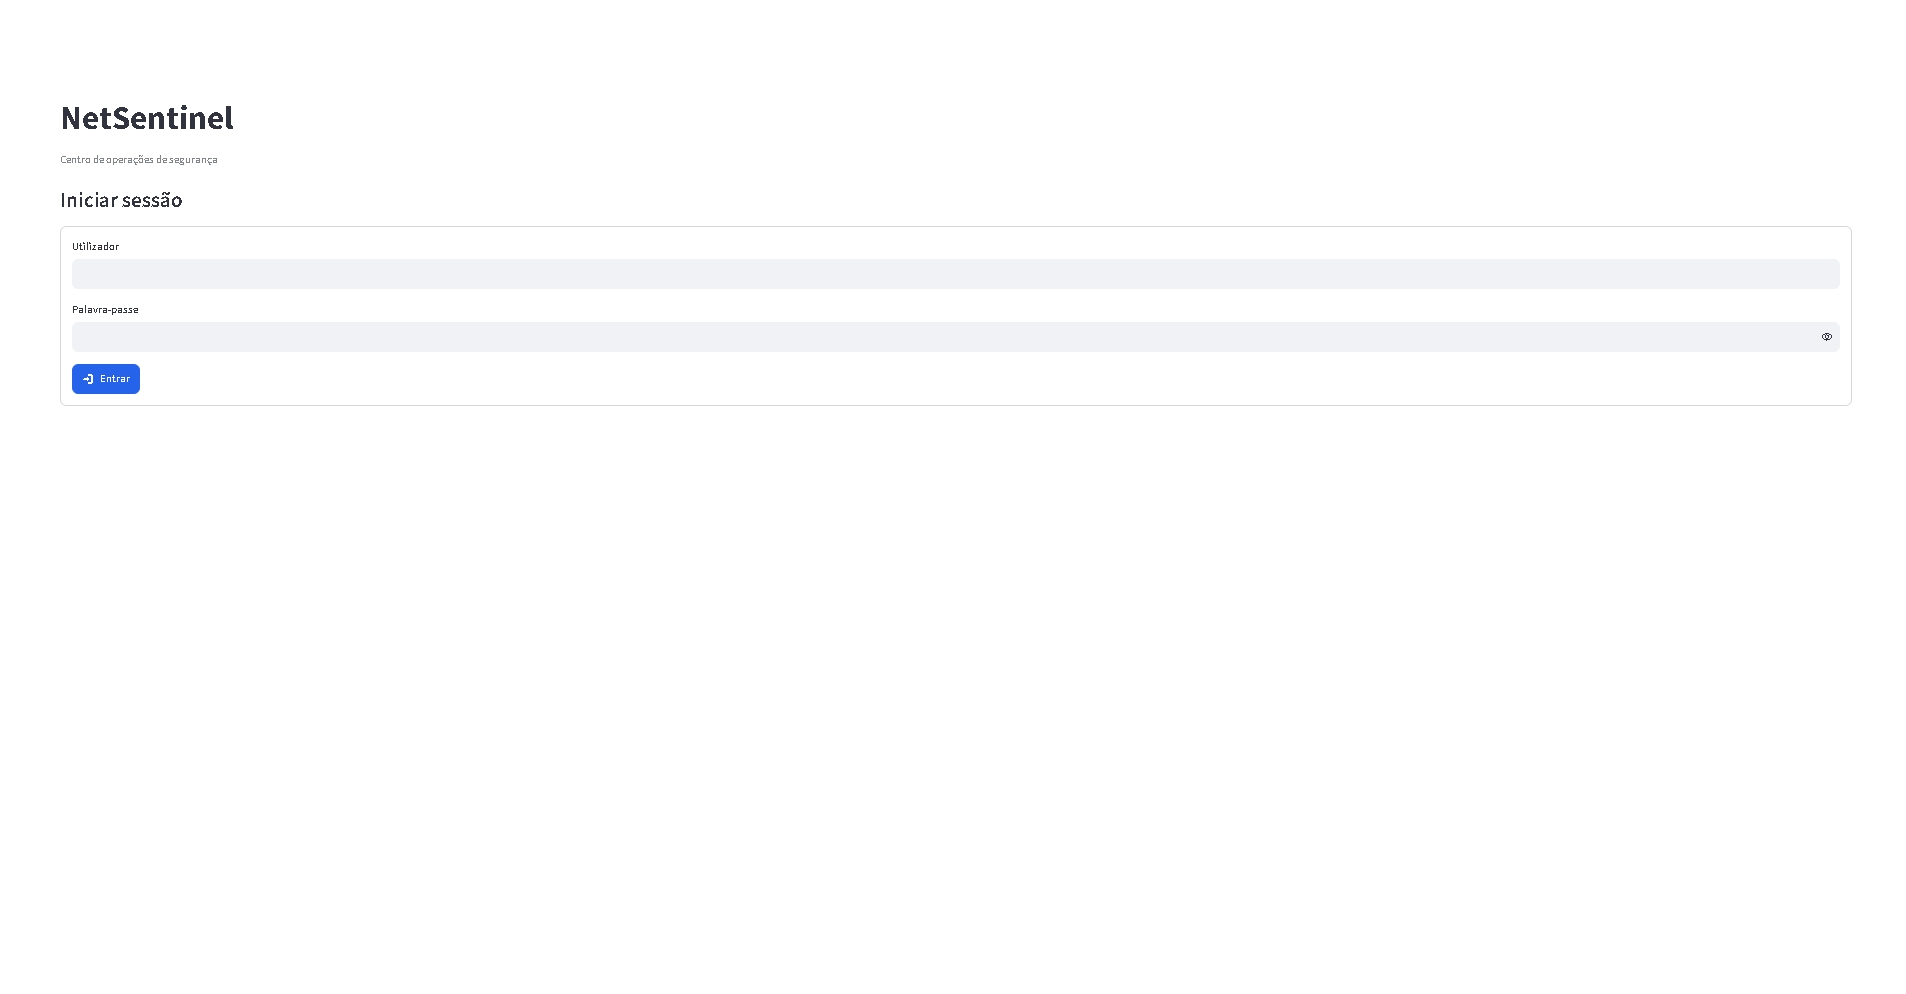
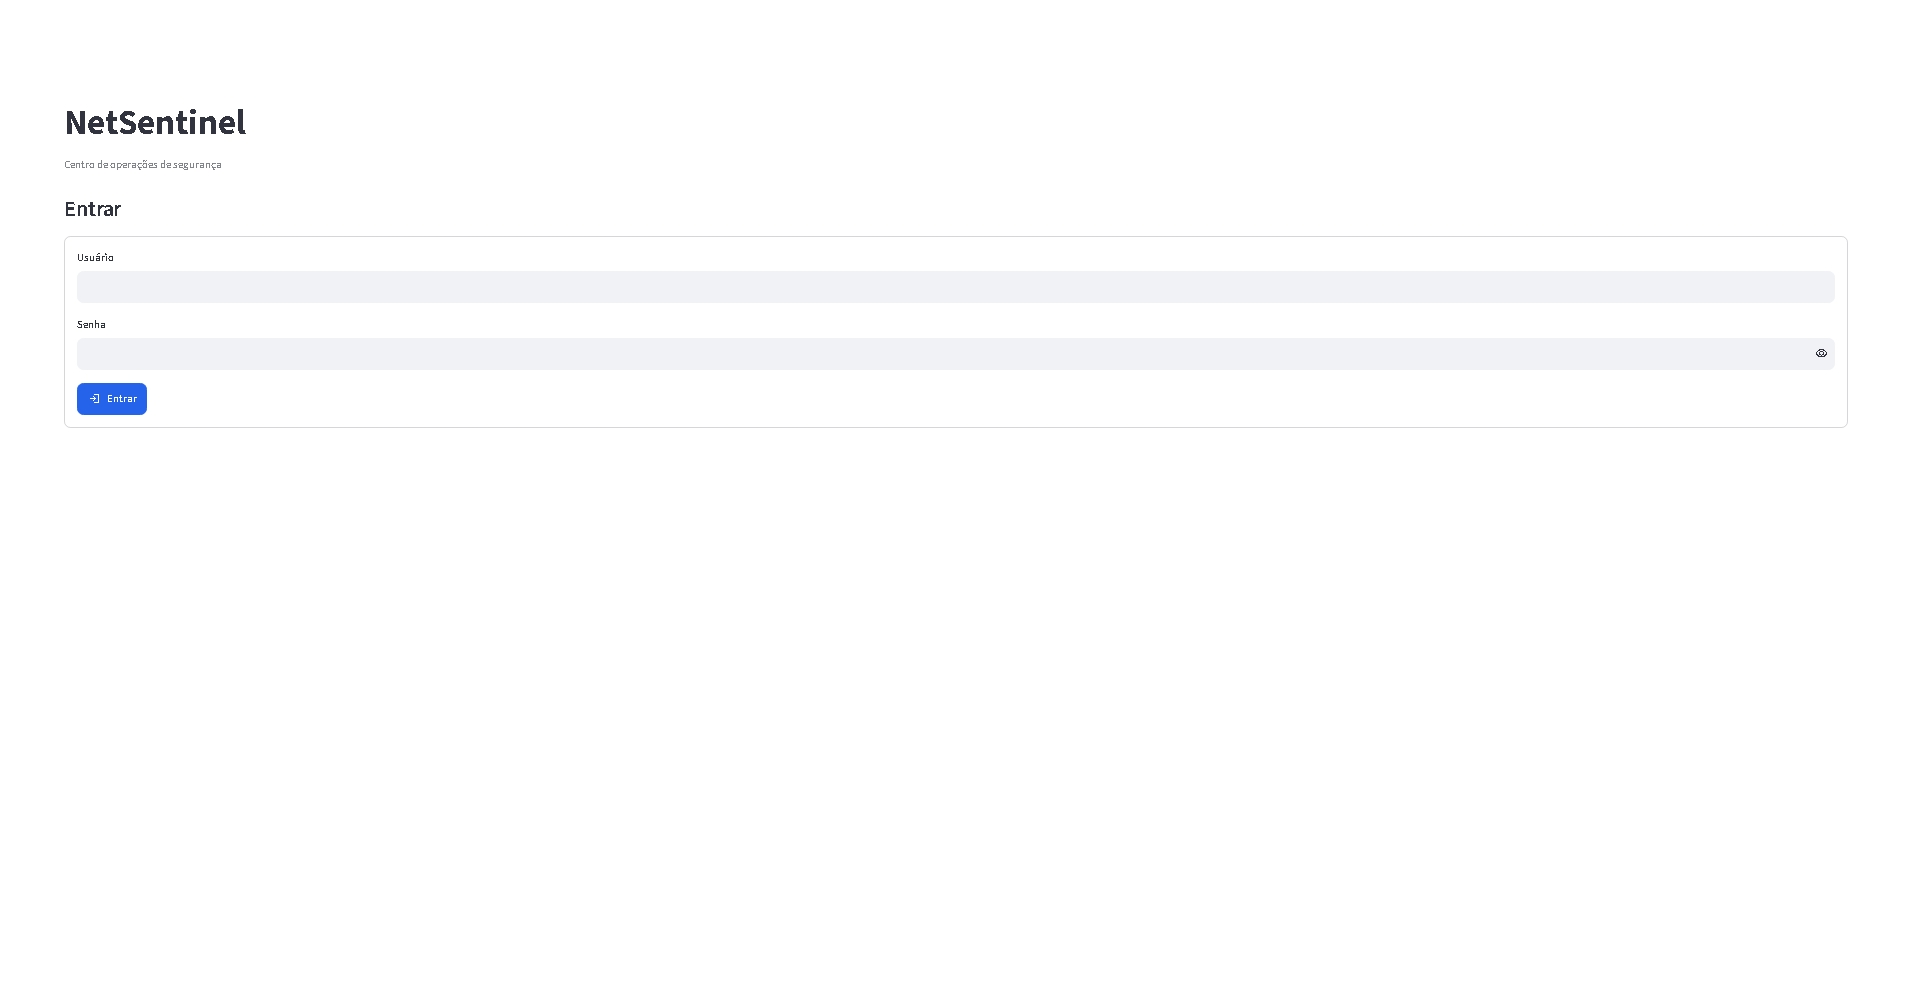
docs: update dashboard screenshots to the Brazilian Portuguese interface
Replaces six README screenshots with captures of the current dashboard
(login, history, incident submission, blocks, reader profile and users),
which show the Brazilian Portuguese labels, IP origin columns and
formatted dates. Renames 03-submeter.jpg to 03-enviar.jpg and
06-utilizadores.jpg to 06-usuarios.jpg, updates the README links and
removes the note saying the screenshots showed old labels. The Swagger
screenshot is unchanged. The images contain no passwords, no personal
e-mail and no IP addresses other than documentation ranges and 8.8.8.8.

Claude-Session: https://claude.ai/code/session_01GfARXJRF4URDHFuqdRi1Sg

Changed region(s): [[0.031, 0.091, 0.1239, 0.273], [0.031, 0.364, 0.0929, 0.4247], [0.031, 0.3033, 0.0619, 0.3337]]

diff --git a/README.md b/README.md
@@ -109,7 +109,7 @@ tests/               Testes automáticos
 
 ## Capturas de tela
 
-Os dados nas capturas são fictícios e usam IPs de documentação, como `203.0.113.x`, exceto o `8.8.8.8` (DNS público do Google), usado para mostrar o país e a organização do IP. A captura do perfil leitor é anterior à origem dos IPs, aos cabeçalhos das tabelas em português e às datas formatadas. As capturas do dashboard são anteriores à tradução da interface para o português do Brasil e ainda mostram rótulos como "Iniciar sessão", "Submeter incidente" e "Utilizadores".
+Os dados nas capturas são fictícios e usam IPs de documentação, como `203.0.113.x`, exceto o `8.8.8.8` (DNS público do Google), usado para mostrar o país e a organização do IP.
 
 ![Tela de login](docs/img/01-login.jpg)
 *Tela de login*
@@ -117,7 +117,7 @@ Os dados nas capturas são fictícios e usam IPs de documentação, como `203.0.
 ![Histórico com perfil admin](docs/img/02-historico.jpg)
 *Histórico com perfil admin*
 
-![Enviar incidente, com o resultado da análise e a origem do IP](docs/img/03-submeter.jpg)
+![Enviar incidente, com o resultado da análise e a origem do IP](docs/img/03-enviar.jpg)
 *Enviar incidente, com o resultado da análise e a origem do IP*
 
 ![Resposta a incidentes e bloqueios ativos, com datas em UTC](docs/img/04-bloqueios.jpg)
@@ -126,7 +126,7 @@ Os dados nas capturas são fictícios e usam IPs de documentação, como `203.0.
 ![Histórico com perfil leitor, sem menu de navegação](docs/img/05-leitor.jpg)
 *Histórico com perfil leitor, sem menu de navegação*
 
-![Gerenciamento de usuários](docs/img/06-utilizadores.jpg)
+![Gerenciamento de usuários](docs/img/06-usuarios.jpg)
 *Gerenciamento de usuários*
 
 ![Documentação da API no Swagger](docs/img/07-swagger.jpg)
